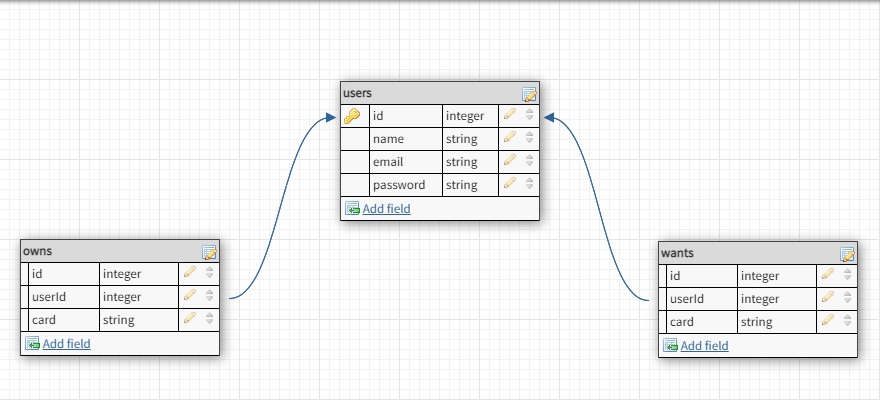
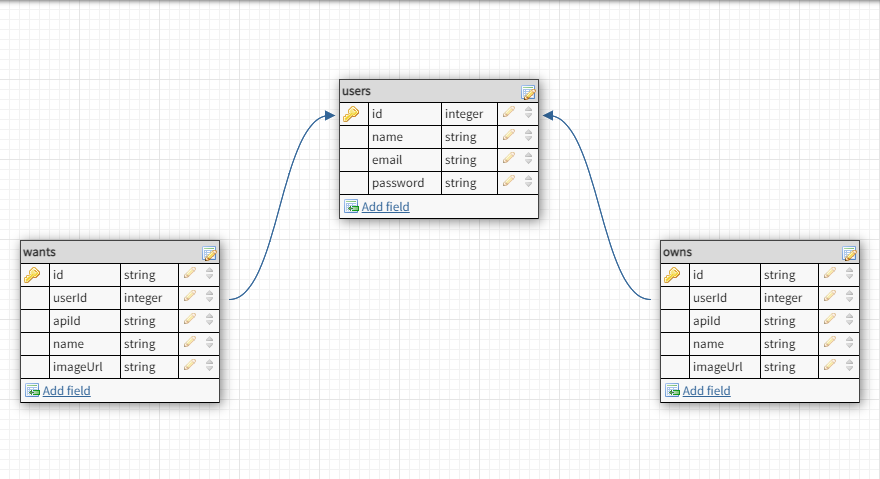
[server] Add API call for homepage to display default tile of cards, update erd image for README

diff --git a/server.js b/server.js
@@ -53,7 +53,19 @@ app.use((req, res, next) => {
 // Home route
 app.get('/', (req, res) => {
   // console.log(res.locals.alerts);
-  res.render('main/index', { alerts: res.locals.alerts });
+  axios.get(`https://api.pokemontcg.io/v1/cards?name=charizard`)
+  .then(response => {
+      if (response.status === 200){
+        // console.log(response.data.cards)
+        res.render('main/index', { 
+            cards: response.data.cards,
+            alerts: res.locals.alerts
+          }
+      )}
+  })
+  .catch(err => {
+      console.log(err);
+  })
 });
 
 // Profile route
